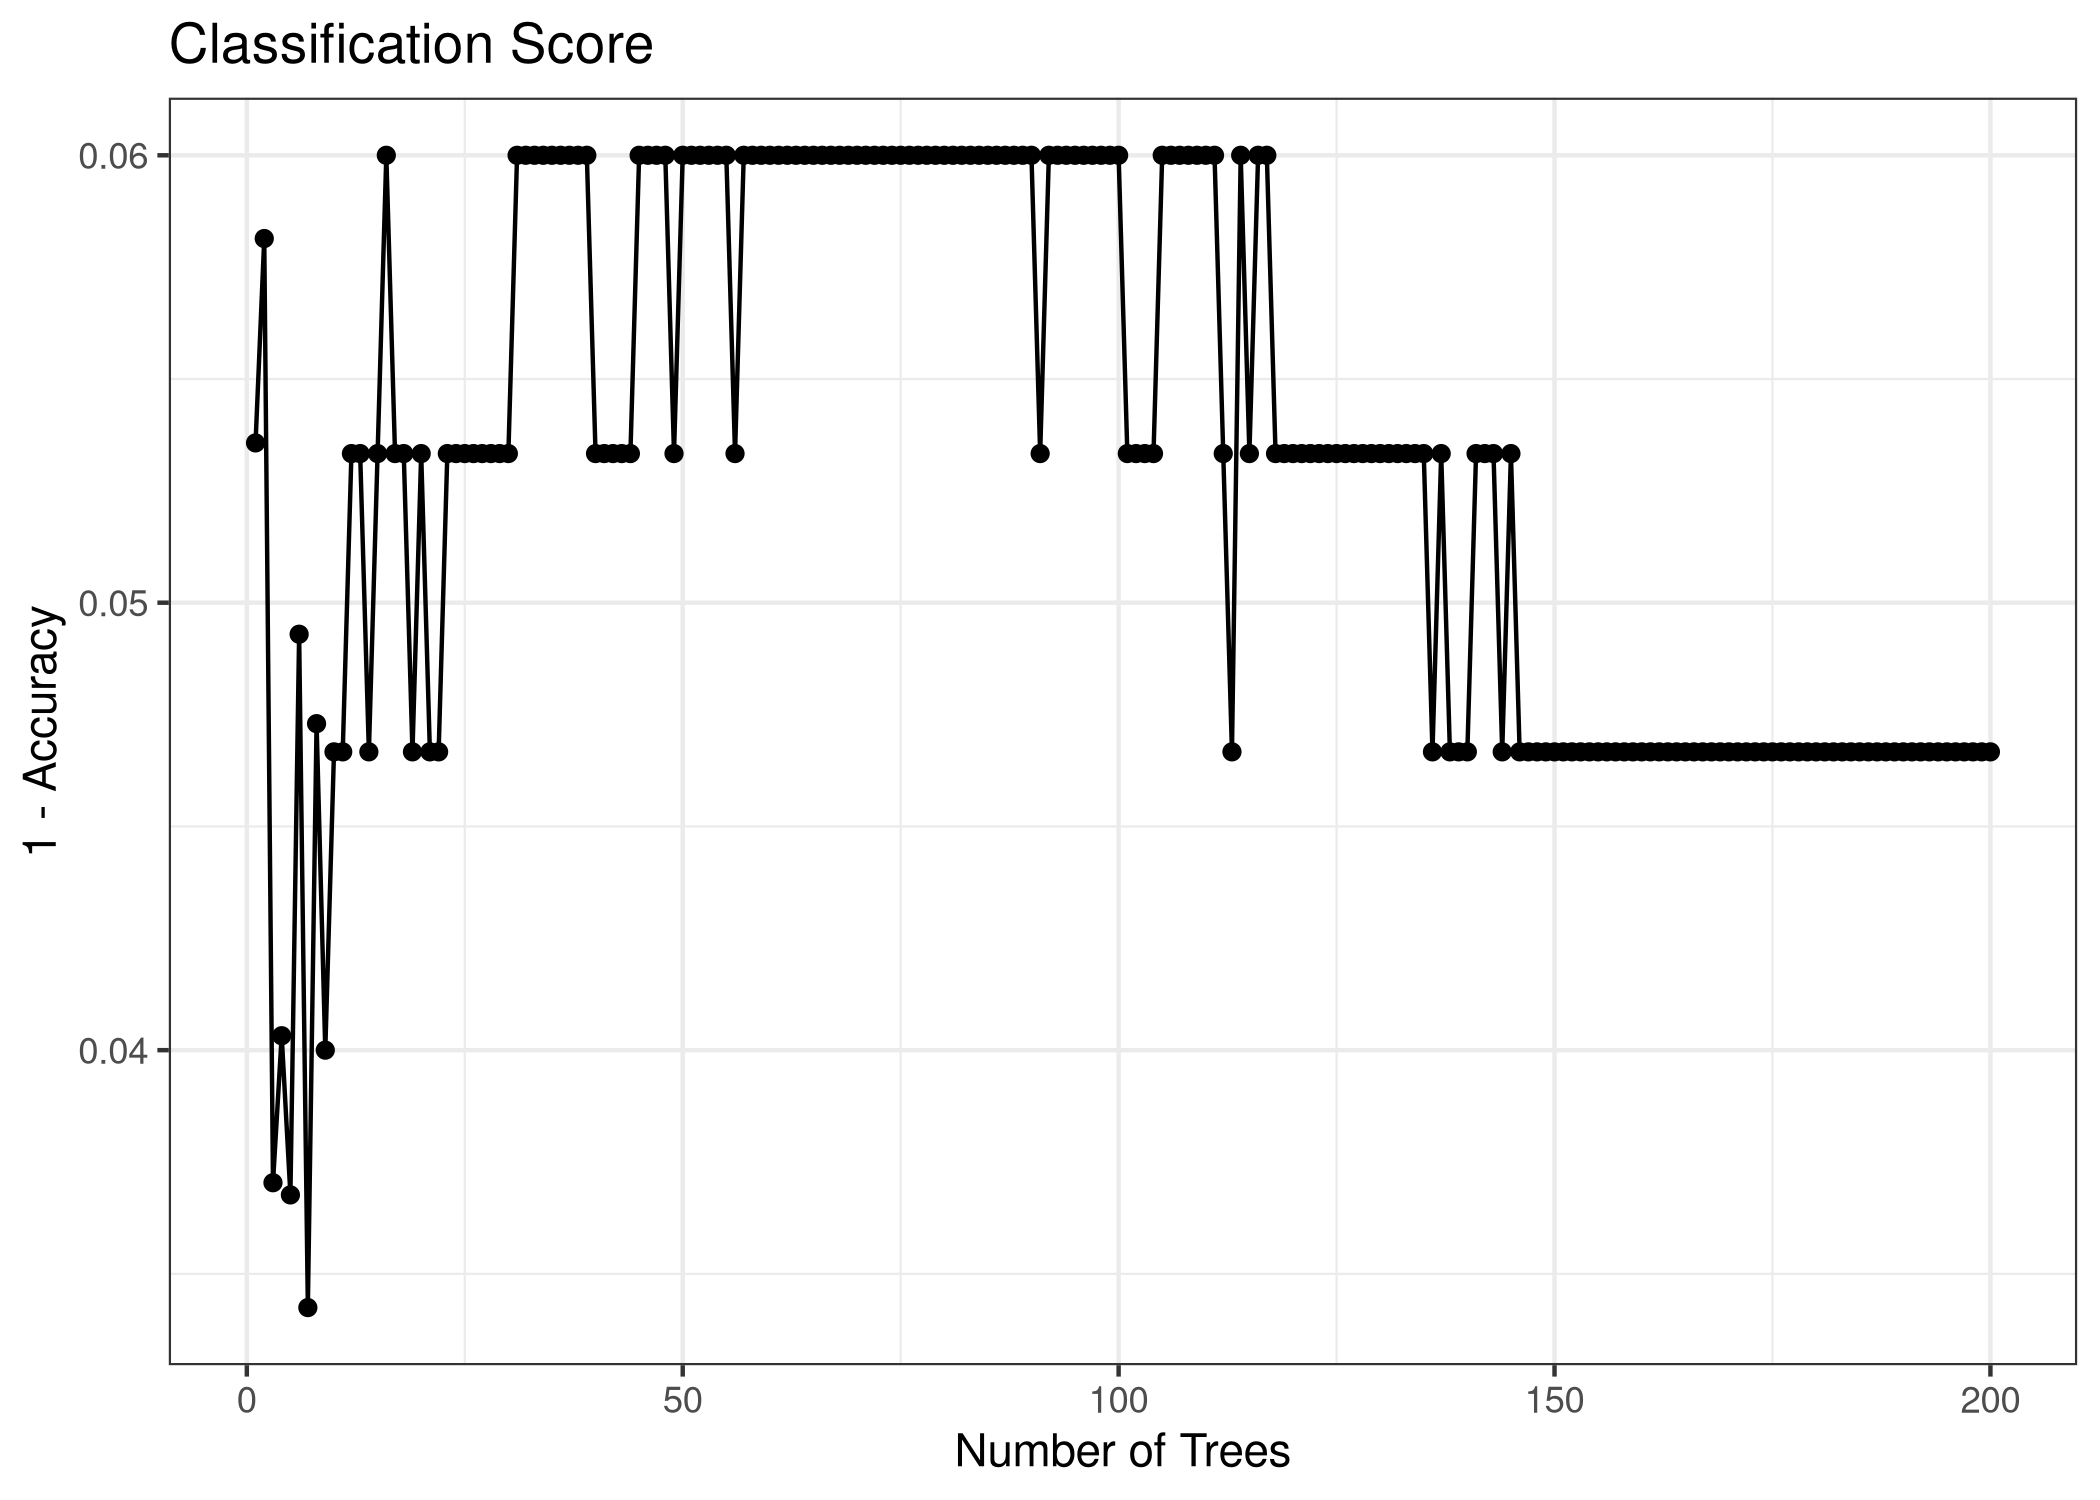
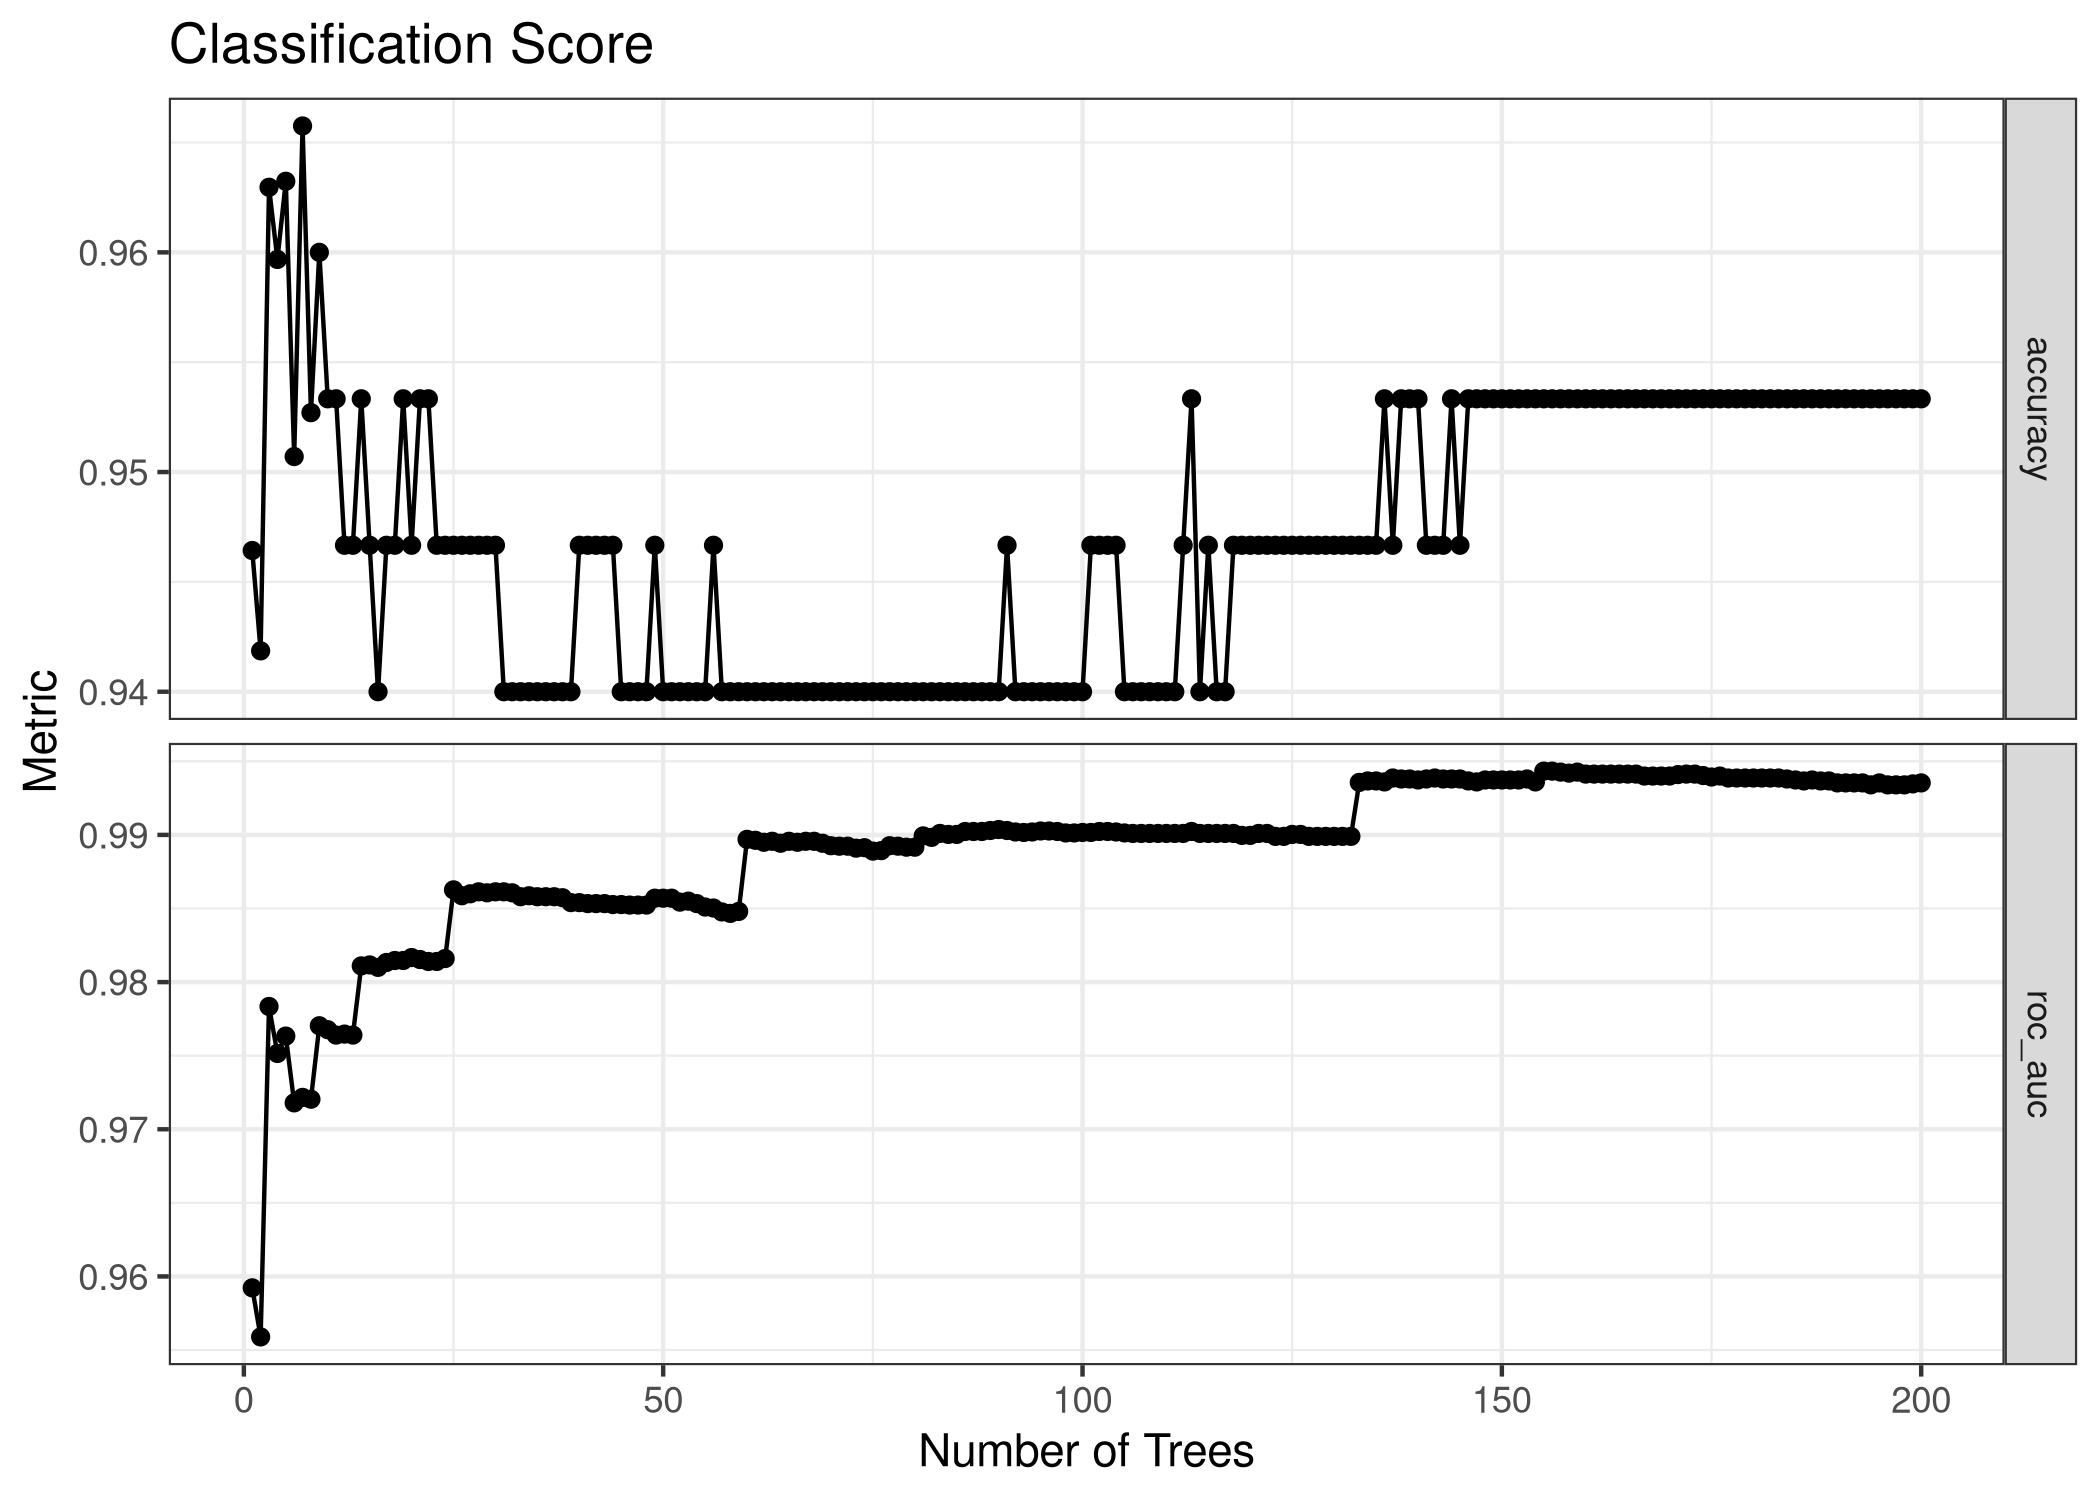
Updates README to include multiple metrics in result

diff --git a/README.md b/README.md
@@ -57,12 +57,12 @@ print(head(regression_score))
 #> # A tibble: 6 × 4
 #>   num_trees .metric .estimator .estimate
 #>       <dbl> <chr>   <chr>          <dbl>
-#> 1         1 rmse    standard        3.50
-#> 2         2 rmse    standard        3.91
-#> 3         3 rmse    standard        3.59
-#> 4         4 rmse    standard        3.22
-#> 5         5 rmse    standard        3.09
-#> 6         6 rmse    standard        3.00
+#> 1         1 rmse    standard       3.50 
+#> 2         1 rsq     standard       0.405
+#> 3         2 rmse    standard       3.91 
+#> 4         2 rsq     standard       0.611
+#> 5         3 rmse    standard       3.59 
+#> 6         3 rsq     standard       0.685
 ```
 
 ``` r
@@ -71,9 +71,11 @@ ggplot(regression_score,
            y = .estimate)) +
   geom_point() +
   geom_line() +
+  facet_grid(rows = vars(.metric),
+             scales = "free_y") +
   ggtitle("Regression Score") +
   xlab("Number of Trees") +
-  ylab("RMSE") +
+  ylab("Metric") +
   theme_bw()
 ```
 
@@ -102,22 +104,24 @@ print(head(classification_score))
 #>   num_trees .metric  .estimator .estimate
 #>       <dbl> <chr>    <chr>          <dbl>
 #> 1         1 accuracy multiclass     0.946
-#> 2         2 accuracy multiclass     0.942
-#> 3         3 accuracy multiclass     0.963
-#> 4         4 accuracy multiclass     0.960
-#> 5         5 accuracy multiclass     0.963
-#> 6         6 accuracy multiclass     0.951
+#> 2         1 roc_auc  hand_till      0.959
+#> 3         2 accuracy multiclass     0.942
+#> 4         2 roc_auc  hand_till      0.956
+#> 5         3 accuracy multiclass     0.963
+#> 6         3 roc_auc  hand_till      0.978
 ```
 
 ``` r
 ggplot(classification_score,
        aes(x = num_trees,
-           y = 1 - .estimate)) +
+           y = .estimate)) +
   geom_point() +
   geom_line() +
+  facet_grid(rows = vars(.metric),
+             scales = "free_y") +
   ggtitle("Classification Score") +
   xlab("Number of Trees") +
-  ylab("1 - Accuracy") +
+  ylab("Metric") +
   theme_bw()
 ```
 
